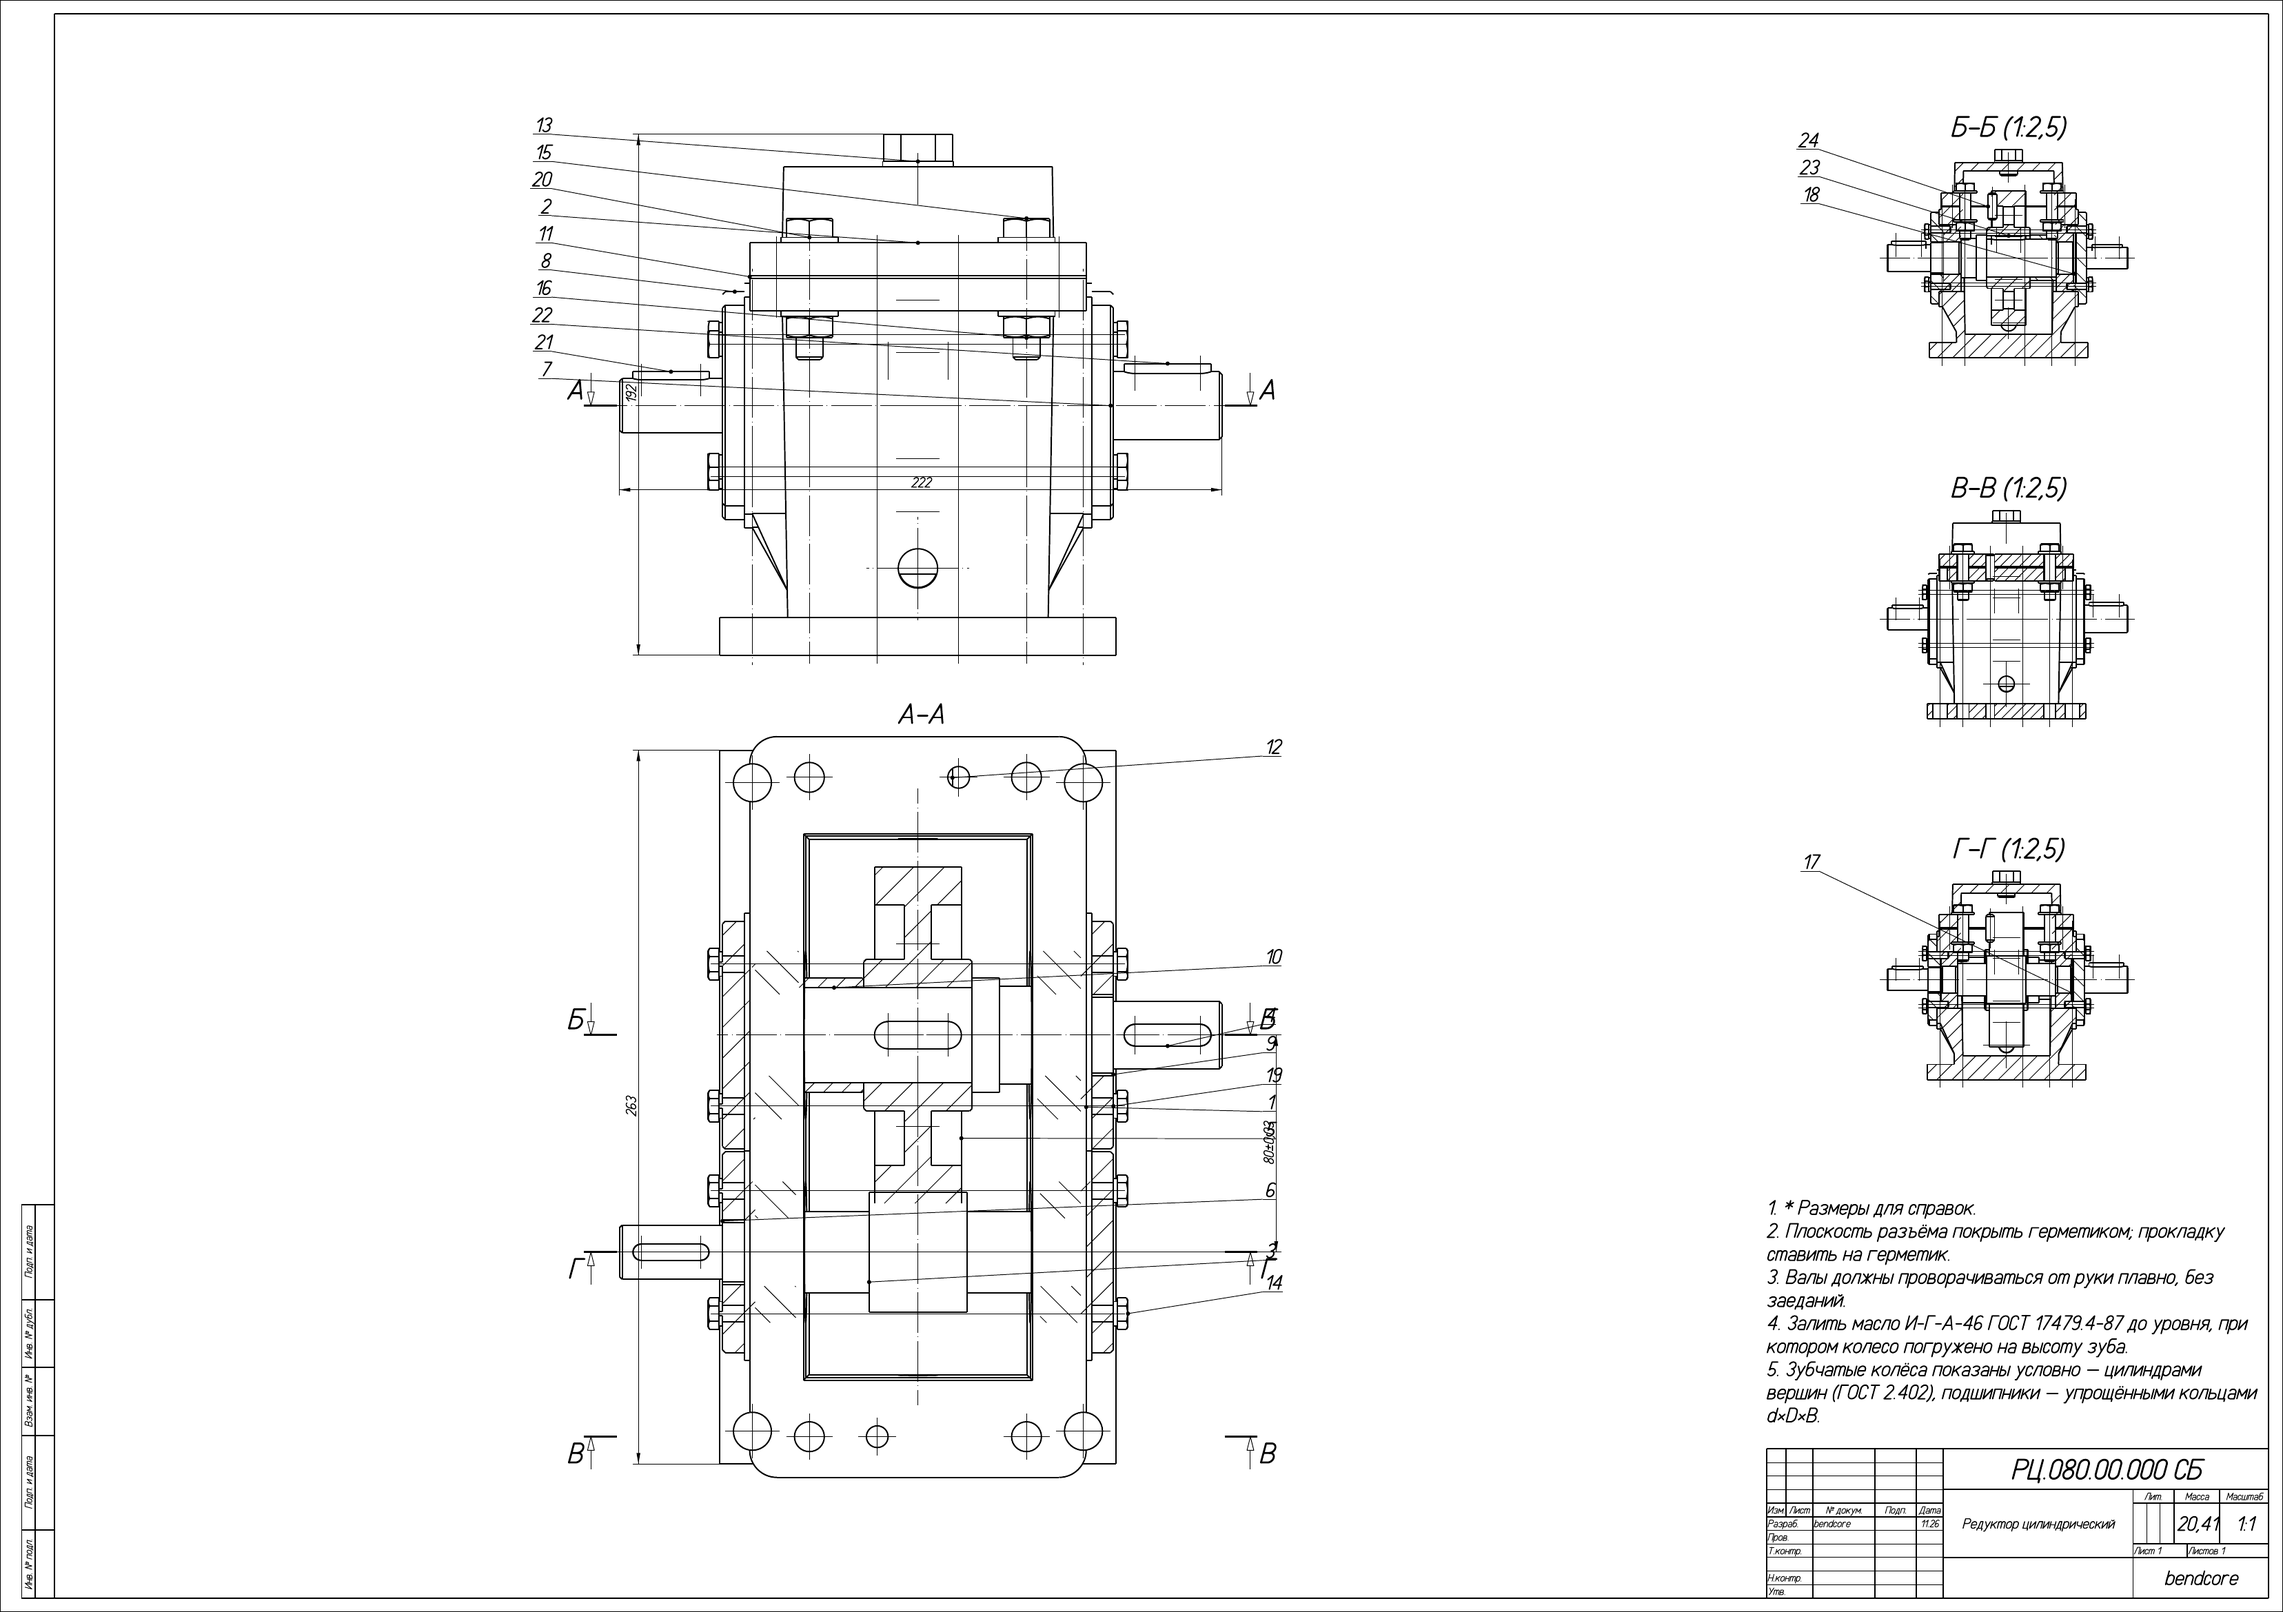
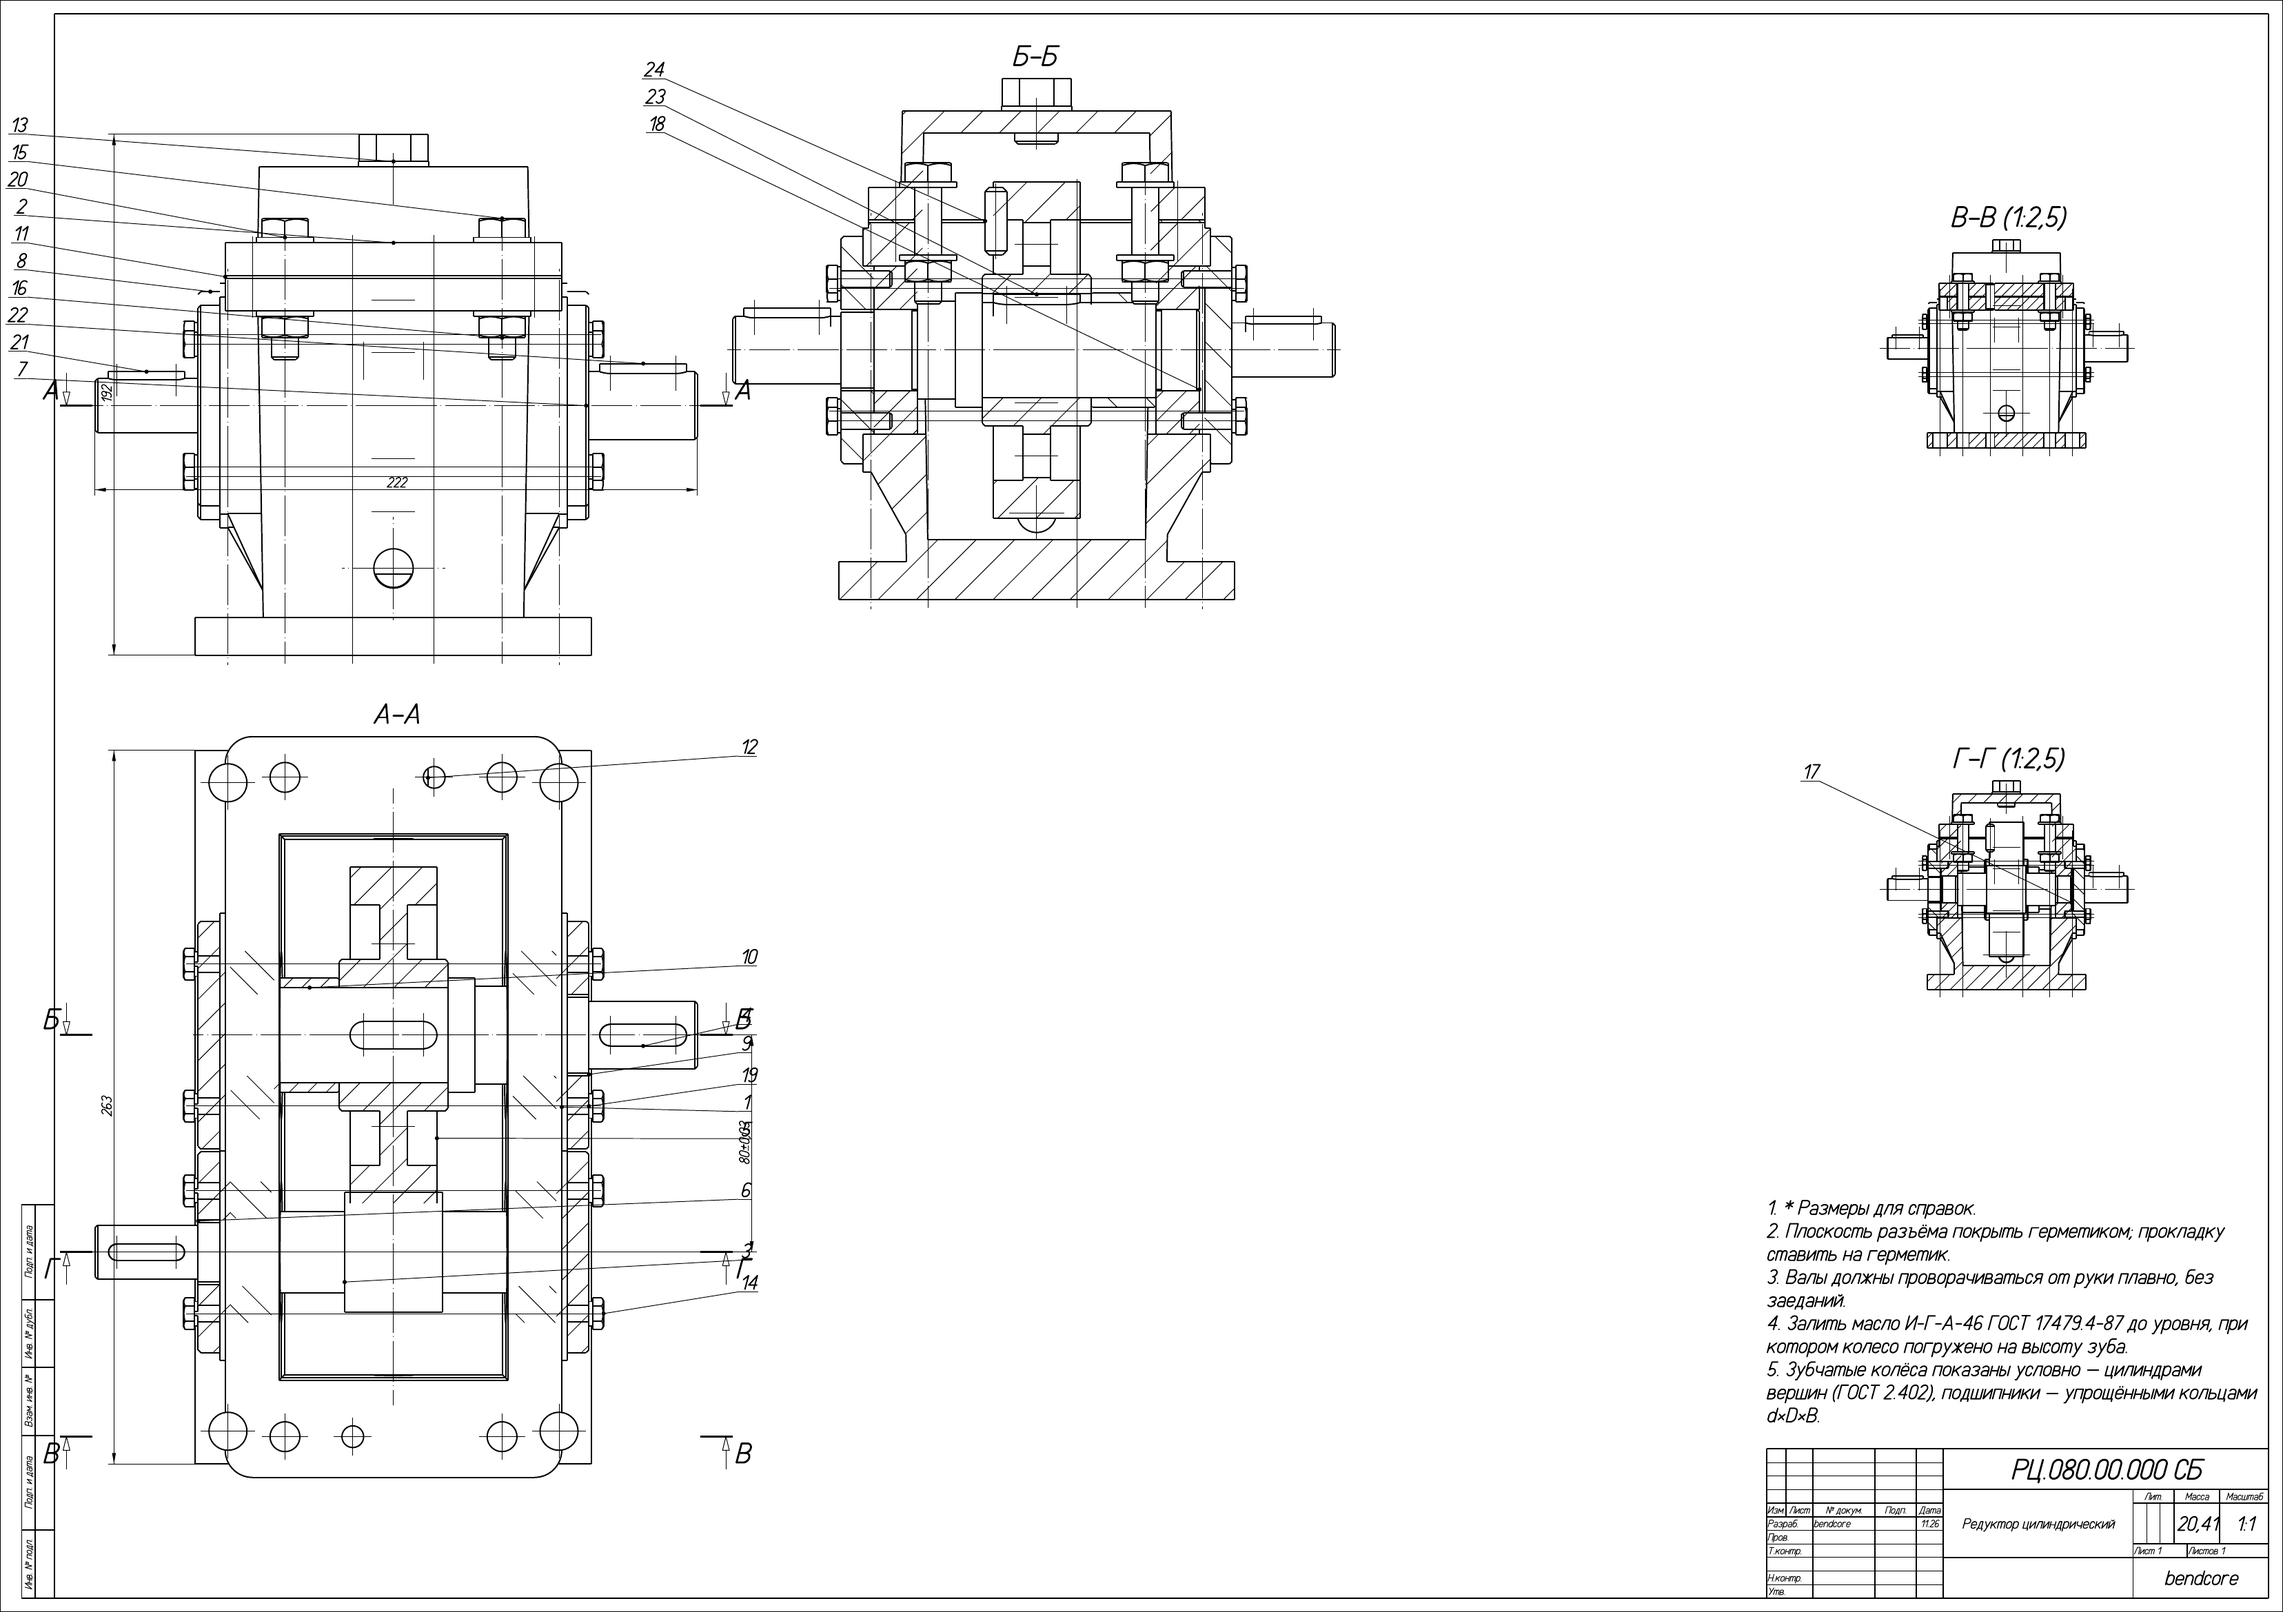
Gearbox: regenerated kit after the merge, section B-B at 1:1
Claude-Session: https://claude.ai/code/session_01Rpe6GEasUXj3fCuBptXKpM

diff --git a/examples/gearbox/README.md b/examples/gearbox/README.md
@@ -54,7 +54,7 @@
 | 4 | `shaft_out.bcdrw.json` | А3, 1:1 | вид, вид сверху, 2 сечения; ⌀30k6 ×2, ⌀35p6, ⌀25h6, пазы 10N9 и 8N9, биение, цилиндричность |
 | 5 | `wheel.bcdrw.json` | А3, 1:2 | вид, вид слева (делительная окружность), разрез (зуб не рассечён, впадины основной); ⌀124h11, таблица параметров ГОСТ 2.403; ⌀35H7, паз 10JS9, торцовое биение |
 | 6 | `cap_out_t.bcdrw.json` | А3, 1:1 | вид, вид слева, разрез; ⌀62h8, ⌀30H11, 4 отв. ⌀7, перпендикулярность |
-| 7 | `gearbox.bcdrw.json` | А1, 1:1 | сборочный чертёж: главный вид, разрез А–А по осям валов, разрезы Б–Б, В–В, Г–Г 1:2,5; 24 позиции (10 автоматических в А–А, 14 ручных на линиях деталей), габаритные размеры, ТТ |
+| 7 | `gearbox.bcdrw.json` | А1, 1:1 | сборочный чертёж: главный вид, разрез А–А по осям валов, разрез Б–Б 1:1, разрезы В–В, Г–Г 1:2,5; 24 позиции (10 автоматических в А–А, 14 ручных на линиях деталей), габаритные размеры, ТТ |
 | 8–9 | `gearbox.bcspec.json` | А4 | спецификация ГОСТ 2.106 (документация, 13 деталей, 11 стандартных изделий) |
 
 В каждом листе — основная надпись (обозначение, наименование, материал, масса из модели, масштаб),
@@ -134,7 +134,8 @@ ctest --test-dir build-occt -R e2e_product_gearbox --output-on-failure   # ≈ 4
    ТТ комплекта ещё записаны словами.
 6. **Компоновка листа**: ~~виды вне проекционной связи ограничены своей ячейкой даже при явном
     положении (`ViewDef::position`)~~ (сделано: вид с положением свободен, масштаб — выбранный,
-    перекрытие — предупреждение); ~~автокомпоновки размеров~~ (сделано: `arrangeDimensions`,
+    перекрытие — предупреждение; разрез Б–Б сборки генератор ставит в 1:1 на свободное место листа,
+    В–В и Г–Г — 1:2,5 колонкой справа); ~~автокомпоновки размеров~~ (сделано: `arrangeDimensions`,
     ГОСТ 2.307) и полок позиций нет; ~~размеры на сечениях (глубина паза t1) не ставятся~~
     (сделано: точка `Section` на линиях сечения грани, `docs/drawing/ANNOTATIONS.md`), глубины
     пазов в комплекте — ещё в ТТ.
